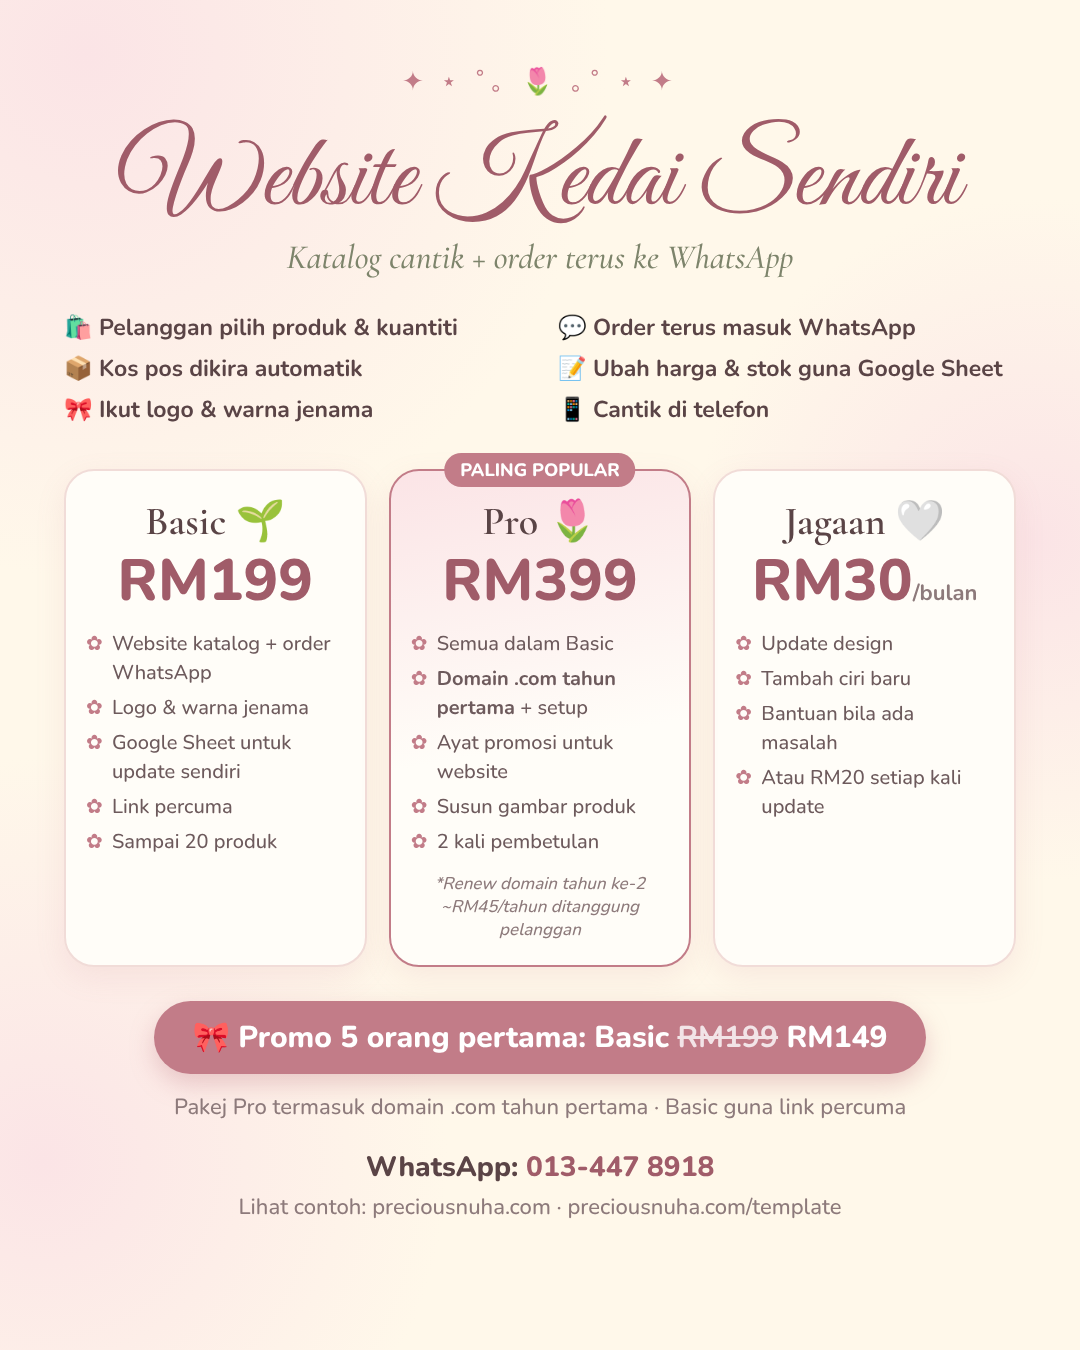
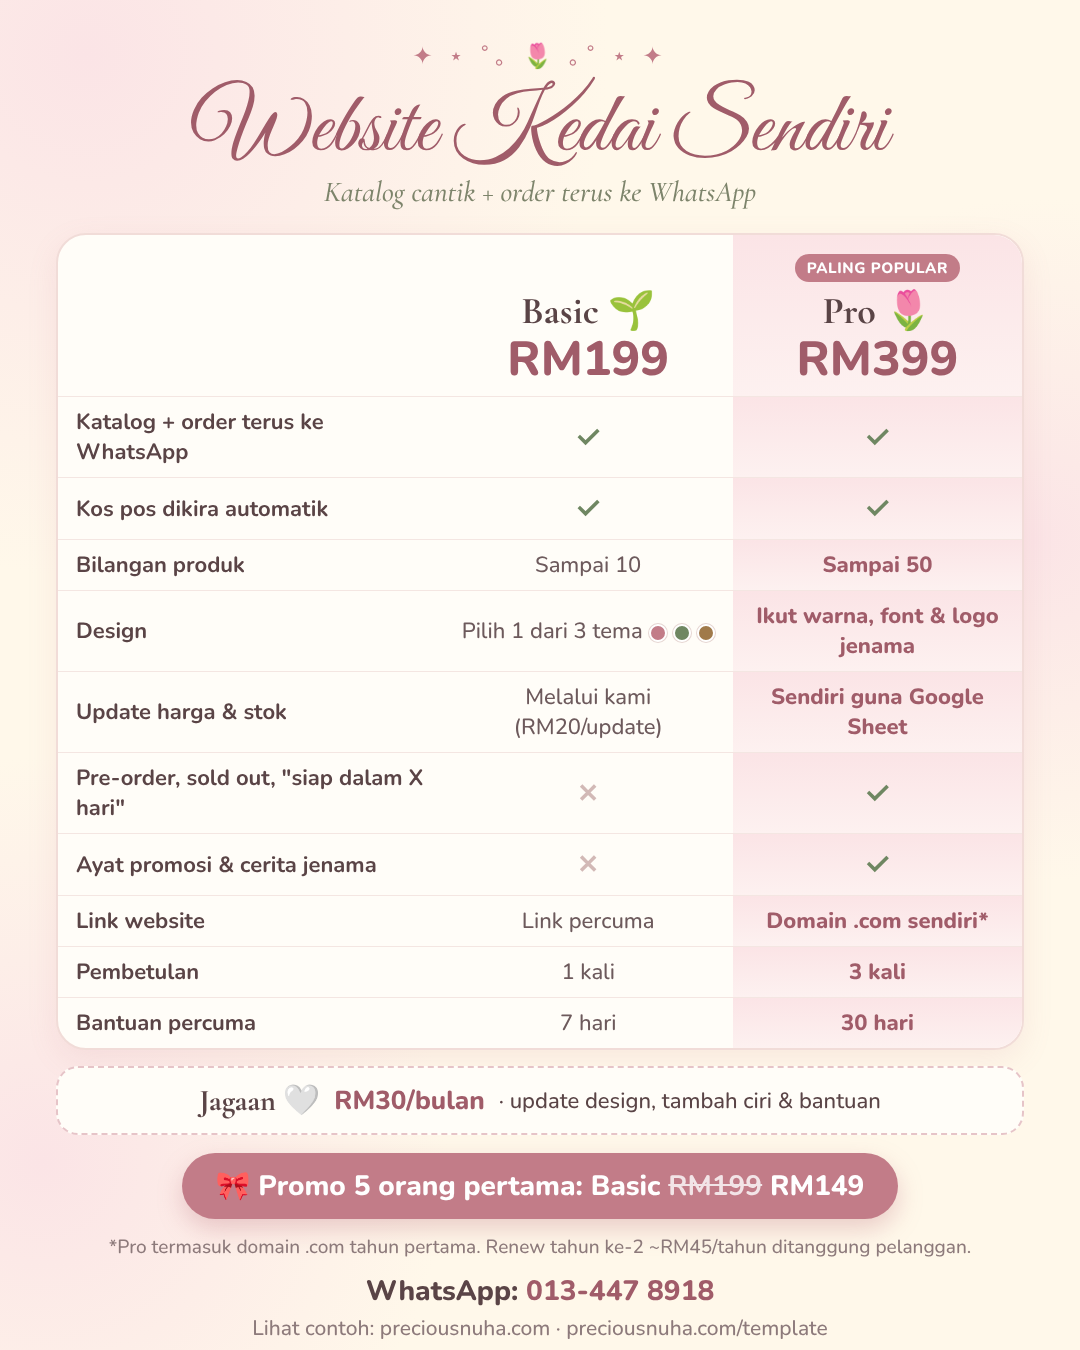
Add three preset themes and a Basic vs Pro price list
The template now has pink, sage and cream themes for the Basic package
(theme in config.js, or ?theme= in the address bar to preview), with
"custom" using the colours and fonts from config.js for Pro. The price
list image compares the two packages, and PANDUAN.md matches it.

Claude-Session: https://claude.ai/code/session_01TRPCWUAsJY6W9kDWZn4YYZ

diff --git a/marketing/harga-website.html b/marketing/harga-website.html
@@ -1,6 +1,6 @@
 <!doctype html>
 <html><head><meta charset="utf-8">
-<link href="https://fonts.googleapis.com/css2?family=Cormorant+Garamond:ital,wght@0,600;1,500&family=Great+Vibes&family=Nunito:wght@500;700;800&display=swap" rel="stylesheet">
+<link href="https://fonts.googleapis.com/css2?family=Cormorant+Garamond:ital,wght@0,600;0,700;1,500&family=Great+Vibes&family=Nunito:wght@500;700;800&display=swap" rel="stylesheet">
 <style>
   * { box-sizing: border-box; margin: 0; }
   body {
@@ -11,83 +11,76 @@
       radial-gradient(circle at 96% 40%, #fbe4e6 0, transparent 26%),
       radial-gradient(circle at 4% 86%, #fbe4e6 0, transparent 26%),
       #fff8ea;
-    padding: 64px 64px; text-align: center;
+    padding: 40px 56px; text-align: center;
   }
-  .spark { color: #c27c88; letter-spacing: .2em; font-size: 26px; }
-  h1 { font-family: "Great Vibes", cursive; font-weight: 400; font-size: 104px; color: #a05c69; line-height: 1; margin-top: 30px; }
-  .sub { font-family: "Cormorant Garamond", serif; font-style: italic; font-size: 34px; color: #7d846b; margin-top: 4px; }
-  .feats { display: grid; grid-template-columns: 1fr 1fr; gap: 10px 28px; text-align: left; margin: 34px auto 0; width: 960px; font-size: 23px; font-weight: 700; }
-  .cards { display: grid; grid-template-columns: repeat(3, 1fr); gap: 22px; margin-top: 44px; }
-  .card { background: #fffdf8; border: 2px solid #f1dcd8; border-radius: 30px; padding: 26px 20px 24px; box-shadow: 0 10px 30px rgba(194,124,136,.12); display: flex; flex-direction: column; }
-  .card.hot { border-color: #c27c88; background: linear-gradient(170deg, #fbe4e6, #fffdf8 55%); position: relative; }
-  .tag { position: absolute; top: -18px; left: 50%; transform: translateX(-50%); background: #c27c88; color: #fff; font-size: 18px; font-weight: 800; padding: 5px 16px; border-radius: 999px; white-space: nowrap; }
-  .name { font-family: "Cormorant Garamond", serif; font-size: 40px; font-weight: 600; color: #5a4446; }
-  .price { font-size: 58px; font-weight: 800; color: #a05c69; line-height: 1.1; margin-top: 4px; }
-  .price small { font-size: 22px; font-weight: 700; color: #8d7a7b; }
-  .card ul { list-style: none; padding: 0; text-align: left; margin-top: 16px; font-size: 20px; line-height: 1.45; color: #6d5a5c; }
-  .card li { padding-left: 26px; position: relative; margin-bottom: 6px; }
-  .card li::before { content: "✿"; position: absolute; left: 0; color: #c27c88; }
-  .note { margin-top: auto; padding-top: 10px; font-size: 17px; color: #8d7a7b; font-style: italic; }
-  .promo { margin: 34px auto 0; display: inline-block; background: #c27c88; color: #fff; border-radius: 999px; padding: 16px 38px; font-size: 30px; font-weight: 800; box-shadow: 0 10px 24px rgba(194,124,136,.35); }
+  .spark { color: #c27c88; letter-spacing: .2em; font-size: 24px; }
+  h1 { font-family: "Great Vibes", cursive; font-weight: 400; font-size: 86px; color: #a05c69; line-height: 1; margin-top: 16px; }
+  .sub { font-family: "Cormorant Garamond", serif; font-style: italic; font-size: 29px; color: #7d846b; margin-top: 0; }
+
+  table {
+    width: 100%; margin-top: 24px; border-collapse: separate; border-spacing: 0;
+    background: #fffdf8; border: 2px solid #f1dcd8; border-radius: 30px; overflow: hidden;
+    box-shadow: 0 10px 30px rgba(194,124,136,.12); font-size: 22px;
+  }
+  th, td { padding: 10px 18px; border-bottom: 1px solid #f4e6e2; }
+  tr:last-child td { border-bottom: 0; }
+  th { padding-top: 16px; padding-bottom: 12px; vertical-align: bottom; }
+  td:first-child, th:first-child { text-align: left; font-weight: 700; color: #5a4446; width: 40%; }
+  td:not(:first-child) { color: #6d5a5c; width: 30%; }
+  .pro { background: linear-gradient(180deg, #fbe4e6, #fdf1f0); }
+  th.pro { border-top-right-radius: 28px; position: relative; }
+  .pname { font-family: "Cormorant Garamond", serif; font-size: 38px; font-weight: 700; color: #5a4446; display: block; }
+  .pprice { font-size: 48px; font-weight: 800; color: #a05c69; line-height: 1.05; display: block; }
+  .pop { display: inline-block; background: #c27c88; color: #fff; font-size: 15px; font-weight: 800; padding: 4px 12px; border-radius: 999px; margin-bottom: 6px; letter-spacing: .04em; }
+  td.yes { color: #6f8762; font-weight: 800; font-size: 30px; }
+  td.no { color: #d2b9b6; font-weight: 800; font-size: 26px; }
+  td.strong { font-weight: 800; color: #a05c69; }
+  .dots { display: inline-flex; gap: 6px; vertical-align: middle; margin-left: 6px; }
+  .dots i { width: 18px; height: 18px; border-radius: 50%; display: inline-block; border: 2px solid #fff; box-shadow: 0 0 0 1px #e6d6d2; }
+
+  .care {
+    margin-top: 16px; display: flex; align-items: center; justify-content: center; gap: 14px;
+    background: #fffdf8; border: 2px dashed #e6c4c8; border-radius: 22px; padding: 14px 20px; font-size: 22px;
+  }
+  .care b { font-family: "Cormorant Garamond", serif; font-size: 30px; color: #5a4446; }
+  .care .p { font-weight: 800; color: #a05c69; font-size: 26px; }
+
+  .promo { margin: 18px auto 0; display: inline-block; background: #c27c88; color: #fff; border-radius: 999px; padding: 14px 34px; font-size: 28px; font-weight: 800; box-shadow: 0 10px 24px rgba(194,124,136,.35); }
   .promo s { opacity: .8; font-weight: 700; }
-  .fine { margin-top: 18px; font-size: 22px; color: #8d7a7b; }
-  .contact { margin-top: 26px; font-size: 28px; font-weight: 800; color: #5a4446; }
+  .fine { margin-top: 14px; font-size: 19px; color: #8d7a7b; line-height: 1.5; }
+  .contact { margin-top: 10px; font-size: 28px; font-weight: 800; color: #5a4446; }
   .contact span { color: #a05c69; }
-  .demo { font-size: 22px; color: #8d7a7b; margin-top: 6px; }
+  .demo { font-size: 21px; color: #8d7a7b; margin-top: 4px; }
 </style></head>
 <body>
   <p class="spark">✦ ⋆ ˚｡ 🌷 ｡˚ ⋆ ✦</p>
   <h1>Website Kedai Sendiri</h1>
   <p class="sub">Katalog cantik + order terus ke WhatsApp</p>
 
-  <div class="feats">
-    <div>🛍 Pelanggan pilih produk &amp; kuantiti</div>
-    <div>💬 Order terus masuk WhatsApp</div>
-    <div>📦 Kos pos dikira automatik</div>
-    <div>📝 Ubah harga &amp; stok guna Google Sheet</div>
-    <div>🎀 Ikut logo &amp; warna jenama</div>
-    <div>📱 Cantik di telefon</div>
-  </div>
+  <table>
+    <tr>
+      <th></th>
+      <th><span class="pname">Basic 🌱</span><span class="pprice">RM199</span></th>
+      <th class="pro"><span class="pop">PALING POPULAR</span><span class="pname">Pro 🌷</span><span class="pprice">RM399</span></th>
+    </tr>
+    <tr><td>Katalog + order terus ke WhatsApp</td><td class="yes">✓</td><td class="pro yes">✓</td></tr>
+    <tr><td>Kos pos dikira automatik</td><td class="yes">✓</td><td class="pro yes">✓</td></tr>
+    <tr><td>Bilangan produk</td><td>Sampai 10</td><td class="pro strong">Sampai 50</td></tr>
+    <tr><td>Design</td>
+      <td>Pilih 1 dari 3 tema<span class="dots"><i style="background:#c27c88"></i><i style="background:#6f8762"></i><i style="background:#a07a4a"></i></span></td>
+      <td class="pro strong">Ikut warna, font &amp; logo jenama</td></tr>
+    <tr><td>Update harga &amp; stok</td><td>Melalui kami (RM20/update)</td><td class="pro strong">Sendiri guna Google Sheet</td></tr>
+    <tr><td>Pre-order, sold out, "siap dalam X hari"</td><td class="no">✕</td><td class="pro yes">✓</td></tr>
+    <tr><td>Ayat promosi &amp; cerita jenama</td><td class="no">✕</td><td class="pro yes">✓</td></tr>
+    <tr><td>Link website</td><td>Link percuma</td><td class="pro strong">Domain .com sendiri*</td></tr>
+    <tr><td>Pembetulan</td><td>1 kali</td><td class="pro strong">3 kali</td></tr>
+    <tr><td>Bantuan percuma</td><td>7 hari</td><td class="pro strong">30 hari</td></tr>
+  </table>
 
-  <div class="cards">
-    <div class="card">
-      <p class="name">Basic 🌱</p>
-      <p class="price">RM199</p>
-      <ul>
-        <li>Website katalog + order WhatsApp</li>
-        <li>Logo &amp; warna jenama</li>
-        <li>Google Sheet untuk update sendiri</li>
-        <li>Link percuma</li>
-        <li>Sampai 20 produk</li>
-      </ul>
-    </div>
-    <div class="card hot">
-      <span class="tag">PALING POPULAR</span>
-      <p class="name">Pro 🌷</p>
-      <p class="price">RM399</p>
-      <ul>
-        <li>Semua dalam Basic</li>
-        <li><strong>Domain .com tahun pertama</strong> + setup</li>
-        <li>Ayat promosi untuk website</li>
-        <li>Susun gambar produk</li>
-        <li>2 kali pembetulan</li>
-      </ul>
-      <p class="note">*Renew domain tahun ke-2 ~RM45/tahun ditanggung pelanggan</p>
-    </div>
-    <div class="card">
-      <p class="name">Jagaan 🤍</p>
-      <p class="price">RM30<small>/bulan</small></p>
-      <ul>
-        <li>Update design</li>
-        <li>Tambah ciri baru</li>
-        <li>Bantuan bila ada masalah</li>
-        <li>Atau RM20 setiap kali update</li>
-      </ul>
-    </div>
-  </div>
+  <div class="care"><b>Jagaan 🤍</b><span class="p">RM30/bulan</span><span>· update design, tambah ciri &amp; bantuan</span></div>
 
   <p class="promo">🎀 Promo 5 orang pertama: Basic <s>RM199</s> RM149</p>
-  <p class="fine">Pakej Pro termasuk domain .com tahun pertama · Basic guna link percuma</p>
+  <p class="fine">*Pro termasuk domain .com tahun pertama. Renew tahun ke-2 ~RM45/tahun ditanggung pelanggan.</p>
 
   <p class="contact">WhatsApp: <span>013-447 8918</span></p>
   <p class="demo">Lihat contoh: preciousnuha.com · preciousnuha.com/template</p>

diff --git a/template/index.html b/template/index.html
@@ -9,9 +9,28 @@
 <link rel="preconnect" href="https://fonts.gstatic.com" crossorigin>
 <script src="config.js"></script>
 <script>
+  // Ready-made themes for the Basic package. "custom" (Pro) uses colors and fonts from config.js.
+  const THEMES = {
+    pink: {
+      colors: { background: "#fff8ea", soft: "#fbe4e6", accent: "#c27c88", accentDark: "#a05c69", text: "#5a4446", muted: "#8d7a7b" },
+      fonts: { script: "Great Vibes", serif: "Cormorant Garamond", body: "Nunito" }
+    },
+    sage: {
+      colors: { background: "#f6f8f1", soft: "#e2ead8", accent: "#6f8762", accentDark: "#4f6545", text: "#3d4738", muted: "#7a8573" },
+      fonts: { script: "Parisienne", serif: "Lora", body: "Nunito" }
+    },
+    cream: {
+      colors: { background: "#fbf7f0", soft: "#efe3d0", accent: "#a07a4a", accentDark: "#74552f", text: "#463b30", muted: "#8a7c6a" },
+      fonts: { script: "Allura", serif: "Playfair Display", body: "Nunito" }
+    }
+  };
+
   // Apply colours, fonts and page title before the page paints.
   (function () {
-    const S = window.SHOP, c = S.colors, f = S.fonts, root = document.documentElement.style;
+    const S = window.SHOP, root = document.documentElement.style;
+    // ?theme=sage in the address bar previews a theme without editing config.js.
+    const theme = THEMES[new URLSearchParams(location.search).get("theme") || S.theme] || { colors: S.colors, fonts: S.fonts };
+    const c = theme.colors, f = theme.fonts;
     root.setProperty("--bg", c.background);
     root.setProperty("--soft", c.soft);
     root.setProperty("--accent", c.accent);

diff --git a/template/config.js b/template/config.js
@@ -17,7 +17,12 @@ window.SHOP = {
   // Kosong = guna products.csv dalam folder ini.
   sheetUrl: "",
 
-  // Warna utama kedai
+  // Tema siap (pakej Basic): "pink" (Pink Lembut), "sage" (Hijau Sage), "cream" (Krim Klasik).
+  // "custom" (pakej Pro) = guna colors & fonts di bawah.
+  // Pratonton tema tanpa ubah fail: tambah ?theme=sage di hujung link website.
+  theme: "pink",
+
+  // Warna kedai (hanya digunakan bila theme: "custom")
   colors: {
     background: "#fff8ea",  // latar belakang
     soft: "#fbe4e6",        // latar kad & butang lembut
@@ -27,7 +32,7 @@ window.SHOP = {
     muted: "#8d7a7b"
   },
 
-  // Font dari Google Fonts: tajuk bergaya, tajuk biasa, teks badan
+  // Font dari Google Fonts: tajuk bergaya, tajuk biasa, teks badan (hanya bila theme: "custom")
   fonts: { script: "Great Vibes", serif: "Cormorant Garamond", body: "Nunito" },
 
   // Bentuk gambar produk: "9 / 16" (tinggi), "4 / 5", "1 / 1" (segi empat)

diff --git a/template/PANDUAN.md b/template/PANDUAN.md
@@ -28,7 +28,7 @@ Buka `config.js` dan tukar:
 - `name`, `tagline`: nama kedai dan slogan
 - `logo`: letak logo dalam `images/` (contoh `images/logo.png`)
 - `whatsapp`: nombor dengan kod negara, tanpa `+` atau sengkang. `013-447 8918` jadi `60134478918`
-- `colors`: warna jenama pelanggan
+- `theme`: **Basic** pilih `"pink"`, `"sage"` atau `"cream"`. **Pro** guna `"custom"` dan isi `colors` & `fonts` ikut jenama pelanggan
 - `hero`, `before`, `after`: ayat-ayat di website
 - `shipping`: kawasan dan kos pos
 - `lang`: `"ms"` atau `"en"`
@@ -77,12 +77,29 @@ Untuk pelanggan ubah tarikh pre-order dan kos pos sendiri, tambah tab bernama `s
 - [ ] Kos pos betul
 - [ ] Buka di telefon, semua kemas
 
-## Cadangan harga jualan
+## Tunjuk tema kepada pelanggan
 
-| Pakej | Isi | Cadangan |
+Buka demo dengan `?theme=` di hujung link:
+
+- Pink Lembut: `preciousnuha.com/template/?theme=pink`
+- Hijau Sage: `preciousnuha.com/template/?theme=sage`
+- Krim Klasik: `preciousnuha.com/template/?theme=cream`
+
+## Pakej & harga
+
+| | Basic RM199 | Pro RM399 |
 |---|---|---|
-| Asas | Setup templat, sambung Sheet, link percuma | Caj sekali |
-| Lengkap | Asas + domain sendiri + gambar dan ayat | Caj sekali + kos domain |
-| Jagaan | Update design dan bantuan bulanan | Yuran bulanan |
+| Katalog + order WhatsApp, kos pos automatik | ✓ | ✓ |
+| Bilangan produk | Sampai 10 | Sampai 50 |
+| Design | 1 dari 3 tema (`theme`) | Warna, font & logo jenama (`theme: "custom"`) |
+| Update harga & stok | Melalui awak (RM20/update): edit `products.csv`, `sheetUrl` kosong | Sendiri guna Google Sheet (`sheetUrl`) |
+| Pre-order, sold out, siap dalam X hari | ✕ (biar lajur kosong, jangan buat tab `settings`) | ✓ |
+| Ayat promosi & cerita jenama (`hero`, `before`, `after`) | Ayat ringkas | ✓ ditulis khas |
+| Link | Percuma (Netlify / github.io) | Domain .com tahun pertama* |
+| Pembetulan | 1 kali | 3 kali |
+| Bantuan percuma | 7 hari | 30 hari |
 
-Kos domain (~RM40–90 setahun) biasanya dibayar oleh pelanggan sendiri.
+**Jagaan:** RM30/bulan (update design, tambah ciri, bantuan) atau RM20 setiap kali update.
+**Promo 5 pelanggan pertama:** Basic RM149, dengan syarat bagi testimoni.
+
+\*Renew domain tahun ke-2 ~RM45/tahun ditanggung pelanggan. Daftar domain dalam akaun pelanggan sendiri, beli .com sahaja, dan catat tarikh renew.
